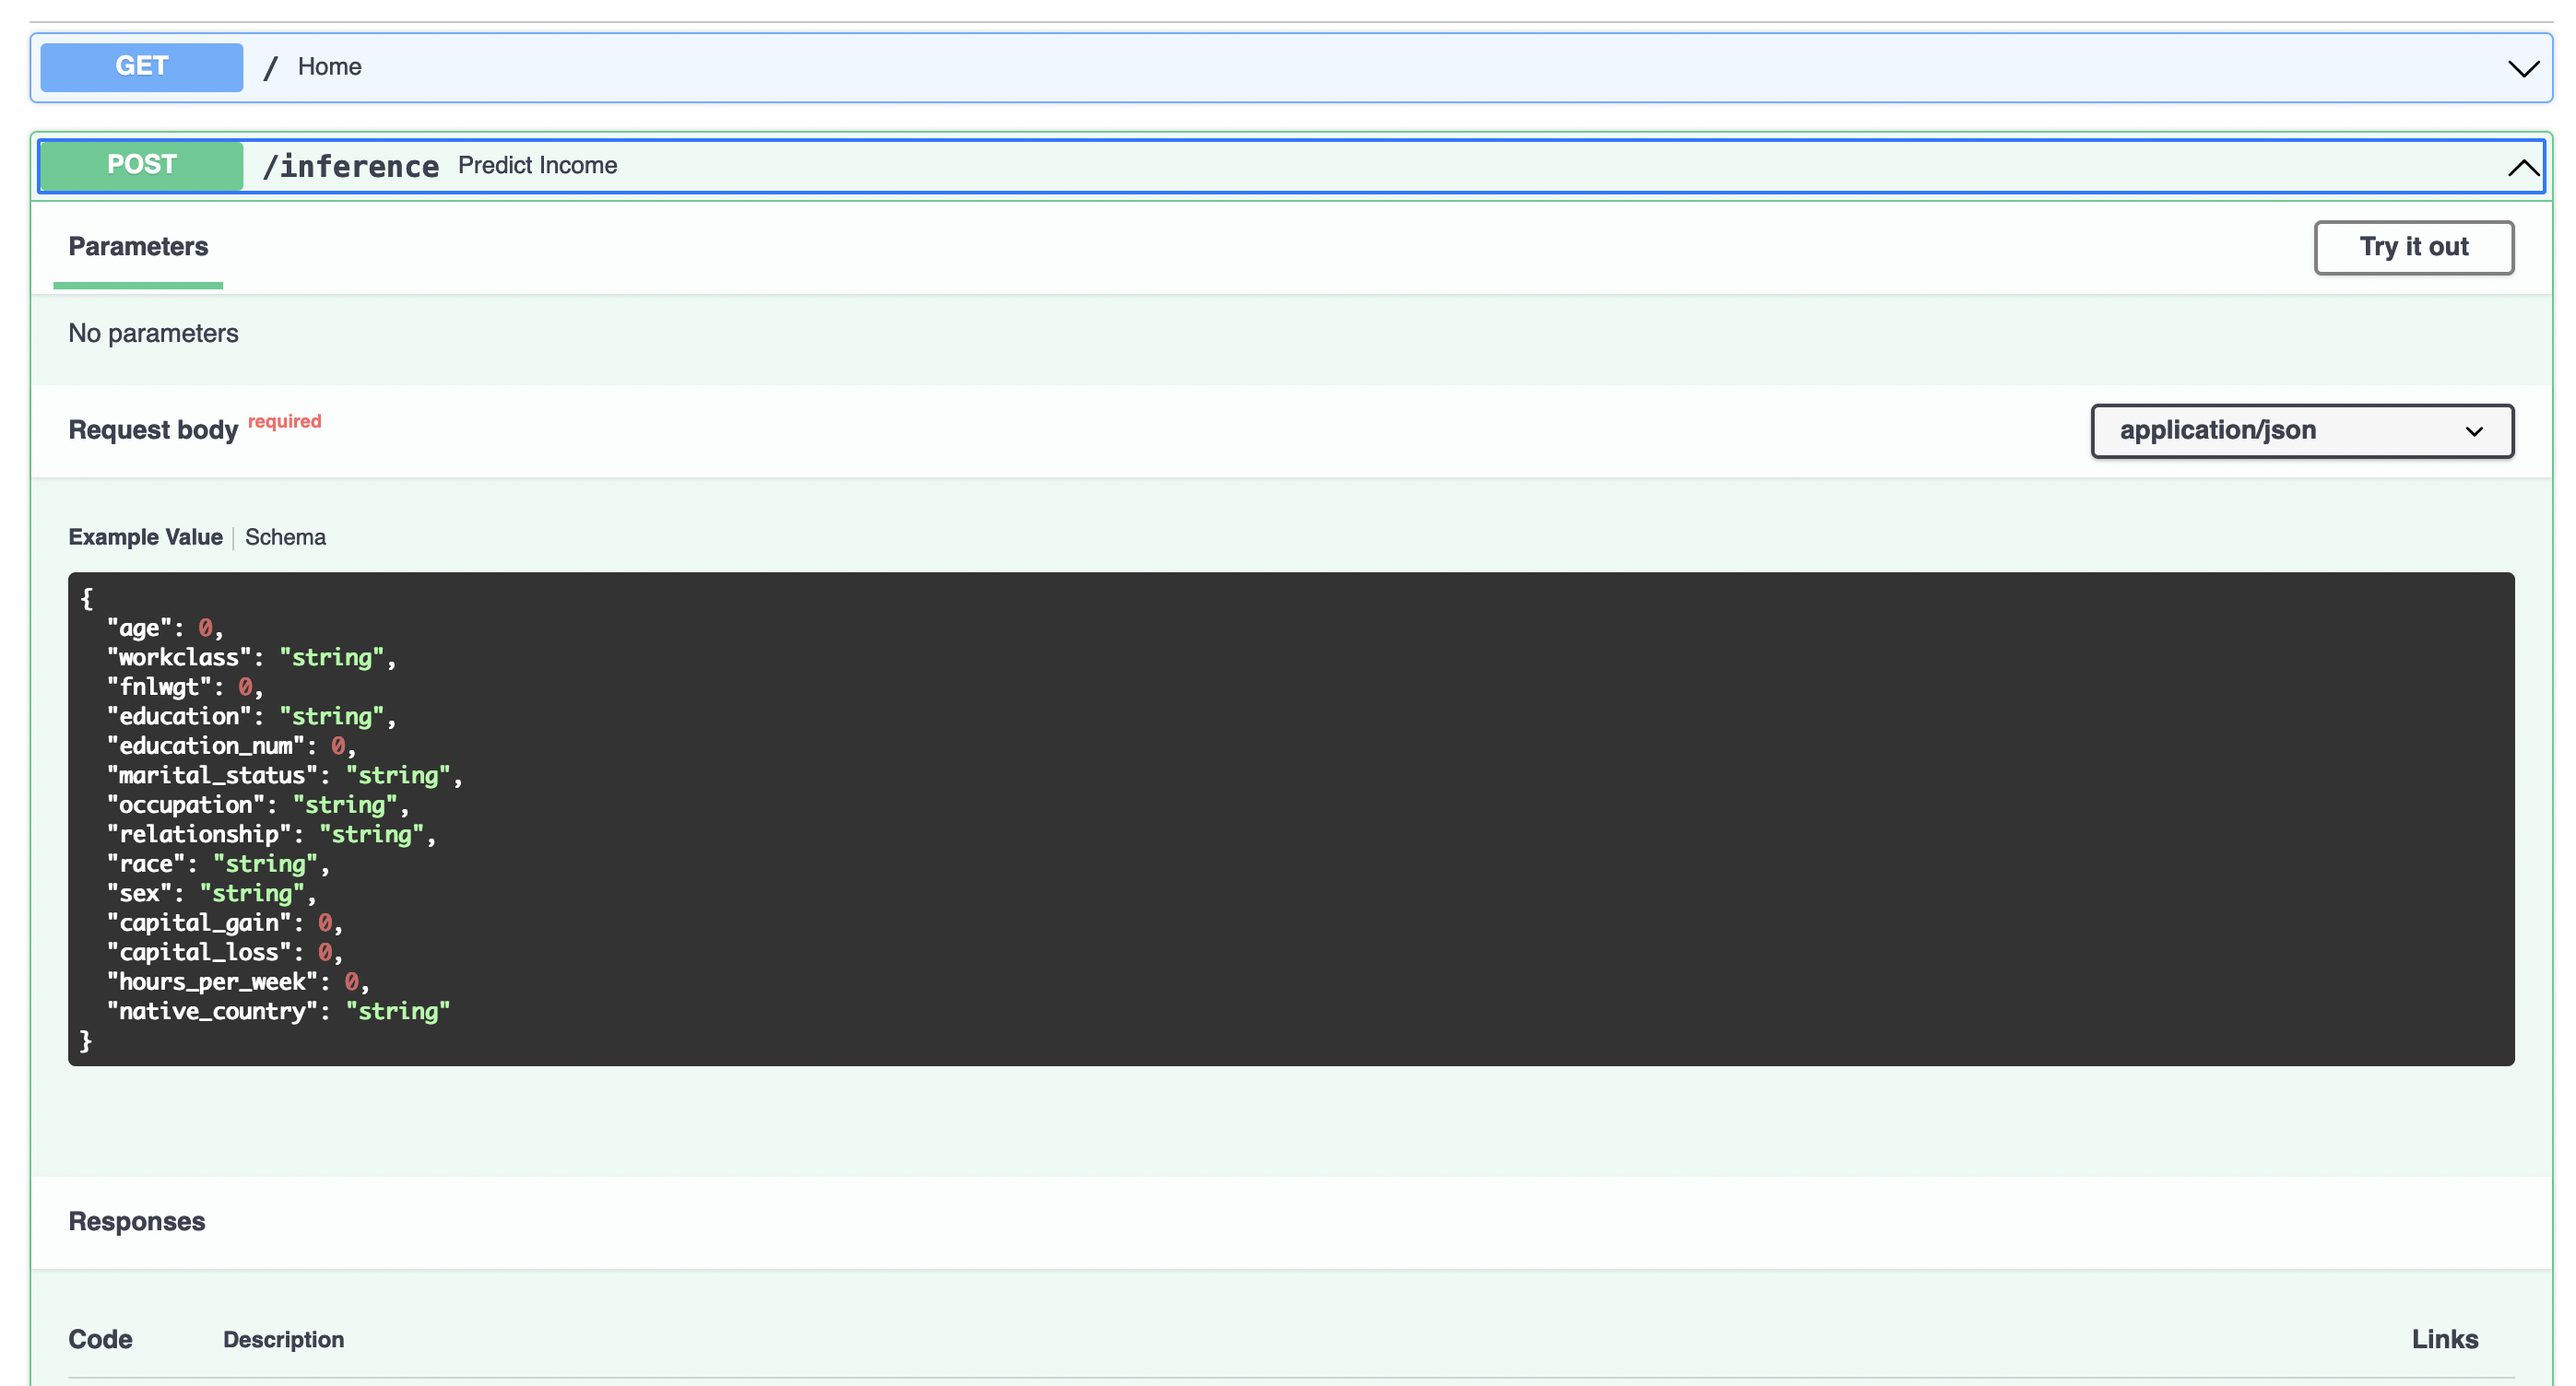
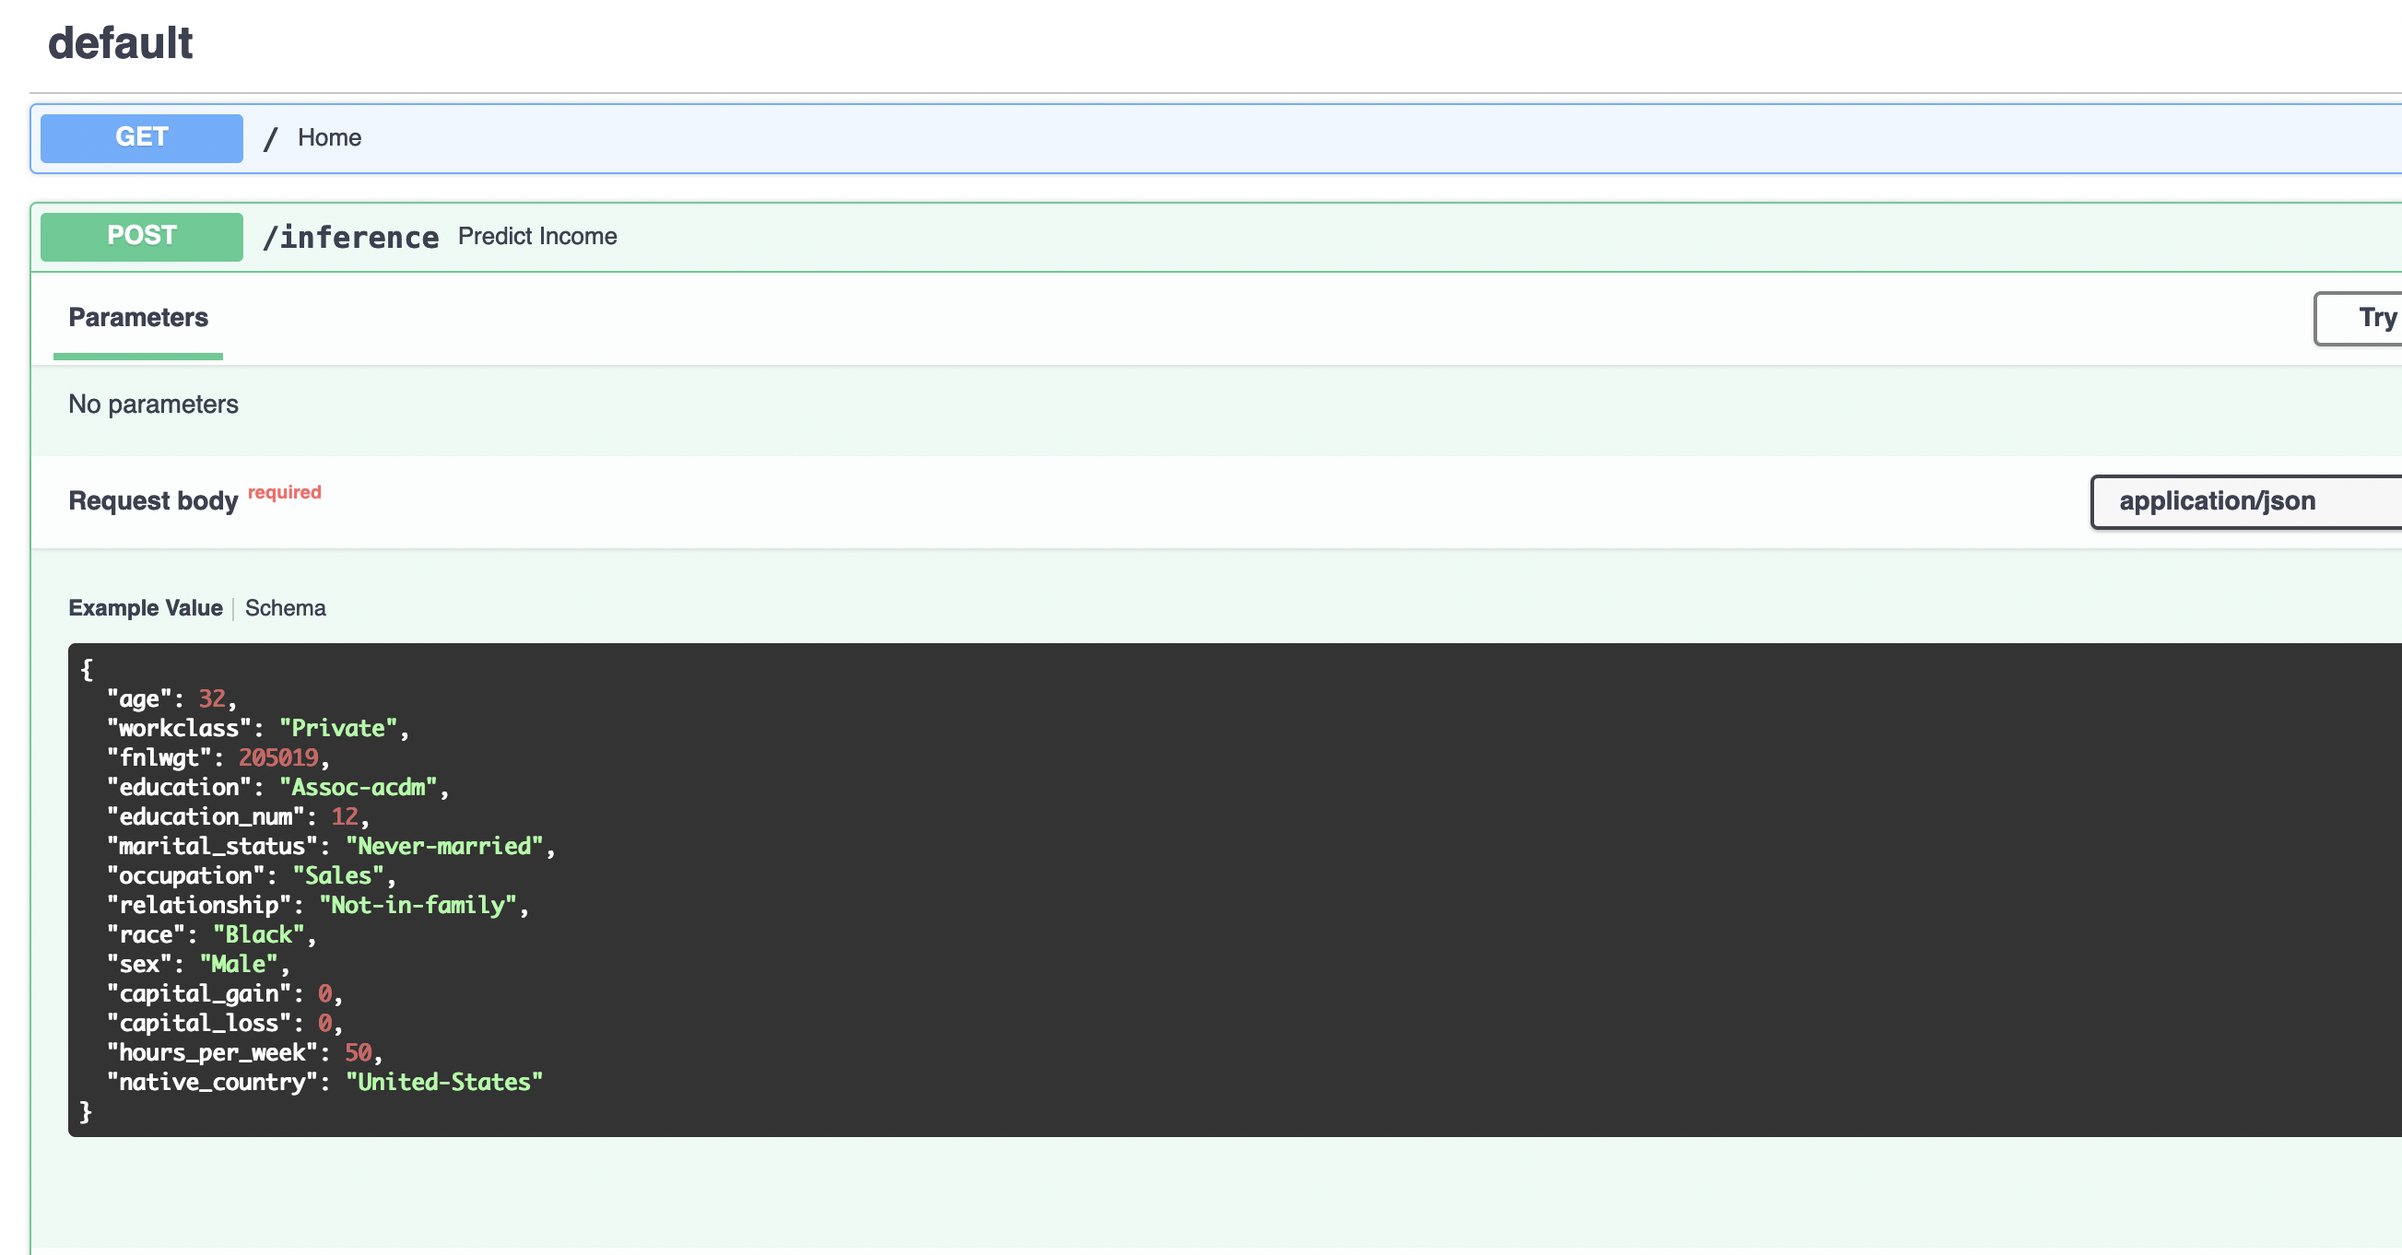
example field added for api request body using pydantic; suggested in review

diff --git a/inference_api.py b/inference_api.py
@@ -2,7 +2,7 @@ import os
 from fastapi import FastAPI
 from fastapi.encoders import jsonable_encoder
 # BaseModel from Pydantic is used to define data objects.
-from pydantic import BaseModel
+from pydantic import BaseModel, Field
 
 from starter.train_model import online_inference
 
@@ -21,20 +21,20 @@ CAT_FEATURES = [
 
 
 class RowData(BaseModel):
-    age: int
-    workclass: str
-    fnlwgt: int
-    education: str
-    education_num: int
-    marital_status: str
-    occupation: str
-    relationship: str
-    race: str
-    sex: str
-    capital_gain: int
-    capital_loss: int
-    hours_per_week: int
-    native_country: str
+    age: int = Field(..., example=32)
+    workclass: str = Field(..., example="Private")
+    fnlwgt: int = Field(..., example=205019)
+    education: str = Field(..., example="Assoc-acdm")
+    education_num: int = Field(..., example=12)
+    marital_status: str = Field(..., example="Never-married")
+    occupation: str = Field(..., example="Sales")
+    relationship: str = Field(..., example="Not-in-family")
+    race: str = Field(..., example="Black")
+    sex: str = Field(..., example="Male")
+    capital_gain: int = Field(..., example=0)
+    capital_loss: int = Field(..., example=0)
+    hours_per_week: int = Field(..., example=50)
+    native_country: str = Field(..., example="United-States")
 
 
 if "DYNO" in os.environ and os.path.isdir(".dvc"):
